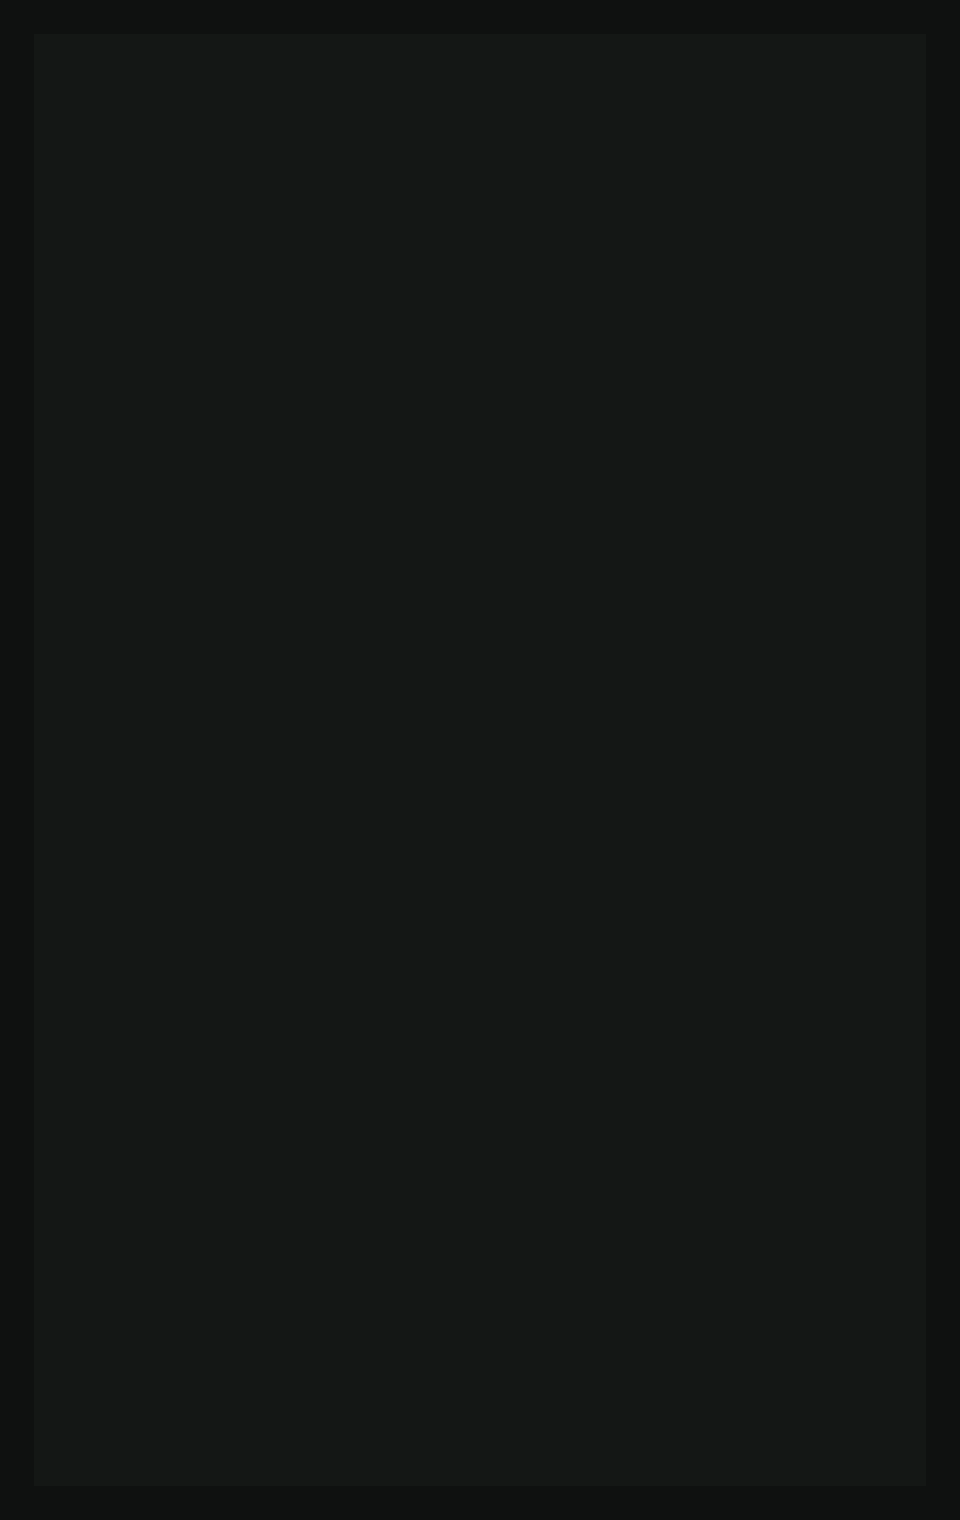
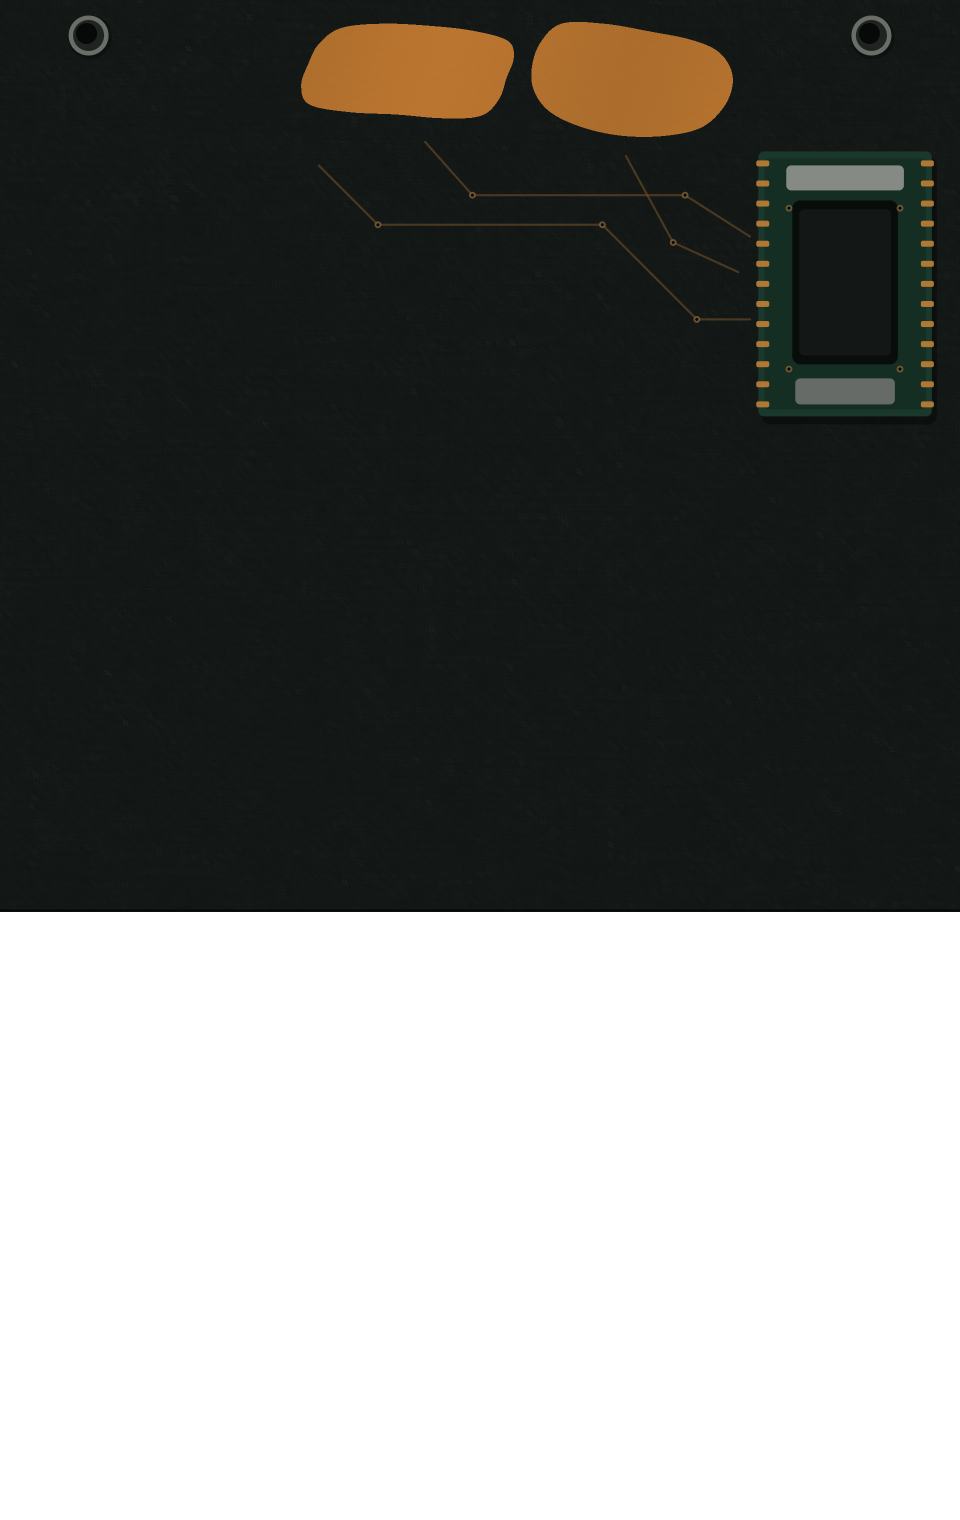
art(glow): add reviewed Touch 2 hardware layers

diff --git a/hardware/glow-faceplate/sources/provenance.md b/hardware/glow-faceplate/sources/provenance.md
@@ -15,6 +15,34 @@ photography, or product artwork.
 The machine-readable hashes are in [checksums.sha256](checksums.sha256). A
 checksum verifies local file identity; it does not confer a licence or approval.
 
+## Clean-room generated material input
+
+`CLEANROOM_FR4_MATERIAL` is an original generated material input, not a
+first-party Synthux source. It is intentionally listed separately from the
+official references above.
+
+| Source ID | Source category | Built-in source | Prompt category | Local filename | SHA-256 | Committed | Derivative role |
+| --- | --- | --- | --- | --- | --- | --- | --- |
[1 lines of base64/hex data omitted]
+
+Task 7 reconstructs every non-material feature deterministically from local
+geometry and original code-native drawing: named Catmull-Rom electrode masks,
+a logo-free generic controller silhouette, restrained routing, clean-room
+silver crosshatching, static switch bases, and moving-only toggle overlays.
+No official photograph, Synthux/Touch wordmark, or copied decorative artwork
+is present in the exported rasters. `RIGHTS_APPROVED` remains `no`.
+
+| Exported Task 7 asset | SHA-256 | Derivation |
+| --- | --- | --- |
[5 lines of base64/hex data omitted]
+
+`GlowFaceplate.png` is not part of this transformation. Task 9 owns its
+replacement from the physical KiCad preview.
+
 ## Touch-electrode geometry rectification
 
 Task 2 uses the official DXF only for removable-faceplate mechanics. It does

diff --git a/hardware/glow-faceplate/README.md b/hardware/glow-faceplate/README.md
@@ -33,6 +33,35 @@ availability.
 | `KICAD_AVAILABLE` | `no` | Captured `kicad-cli` path and version from an existing installation or a user-approved installation. |
 | `SYNTHUX_PROFILE_APPROVED` | `no` | Written Synthux manufacturing profile covering thickness, mask, finish, copper treatment, minimum features, and panelisation. |
 
+## VCV clean-room hardware layers
+
+While `RIGHTS_APPROVED` is `no`, the shipped fixed-hardware images are
+clean-room reconstructions only. They contain no official photography,
+Synthux/Touch wordmark, copied decorative artwork, or protected product
+identity. The generated FR4 input is a material-only Codex Imagegen source and
+is recorded separately from the first-party references in
+[sources/provenance.md](sources/provenance.md).
+
+- `GlowRear.png` owns the fixed upper-rear substrate, a logo-free generic
+  controller region, and neutral P10/P11 gold surfaces. It is transparent
+  below the exact 77.1 mm board boundary.
+- `GlowTouch.png` owns the lower substrate, neutral P00-P09 gold surfaces,
+  original clean-room silver crosshatching, and both static switch bases. It is
+  transparent above the same boundary.
+- The three switch PNGs own only moving lever, highlight, and shadow pixels.
+  Their 96 x 192 canvases share pivot `(48, 96)`; no mounting plate or washer
+  changes between frames.
+- Runtime NanoVG remains the sole owner of live, excursion, and refusal state.
+  Neutral raster layers contain no selected-state glow or feedback colour.
+
+All panel layers are 960 x 1520 RGBA at four times Rack panel resolution. The
+board split lands exactly on source row 912; one-half source pixel is about
+0.042 mm, inside the 0.25 mm mechanical-fiducial tolerance. The material
+layers were inspected in generated 75%, 100%, 125%, and 150% image-only review
+composites. They have not received user visual approval and were not captured
+inside Rack because no `Rack.exe` is available. Task 9 still owns
+`GlowFaceplate.png`; its current placeholder is not a physical-preview claim.
+
 ## Tooling and export policy
 
 This project requires **KiCad 8 or later**. The current preflight did not find
